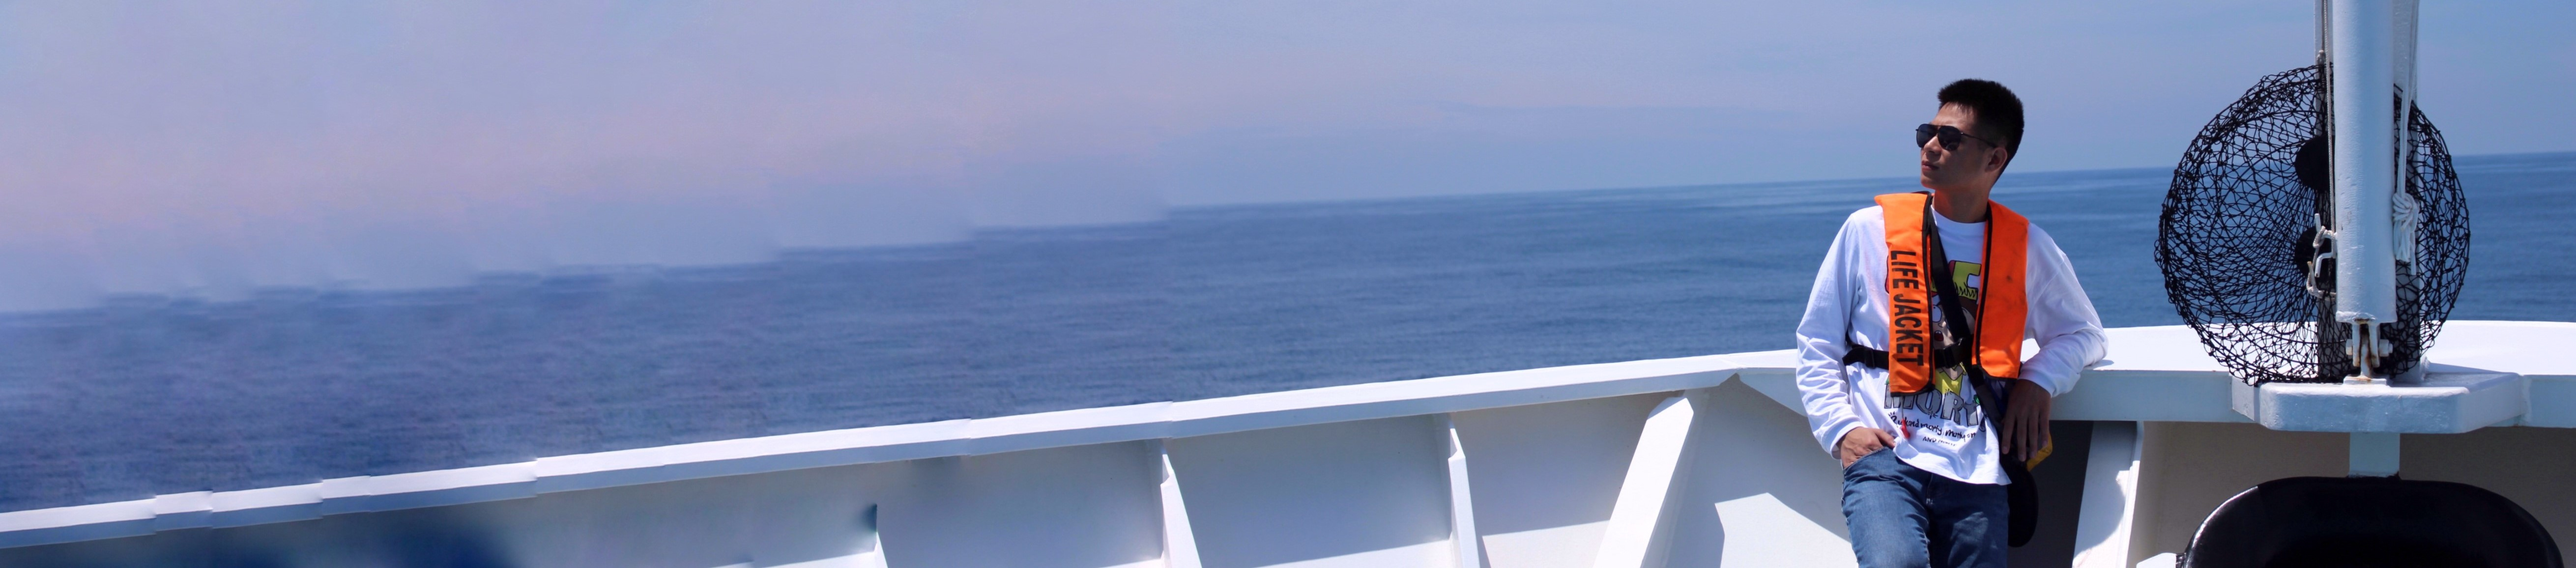
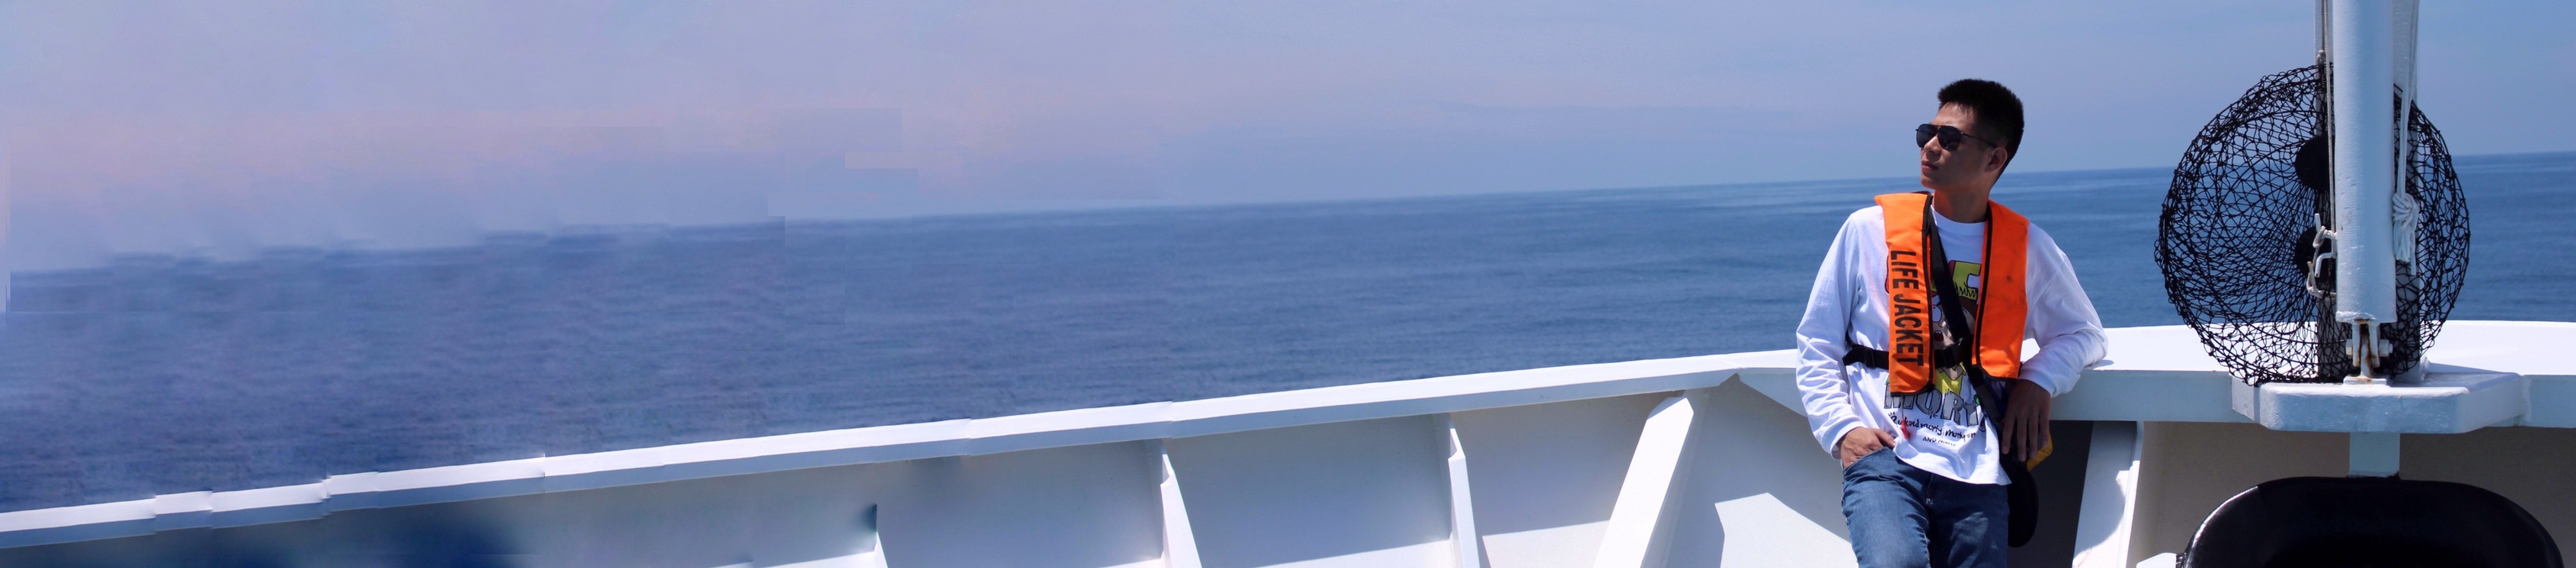
横幅图片尺寸缩小

diff --git a/index.html b/index.html
@@ -186,6 +186,7 @@
 				<ul class="games_tits">
 					<li class="greedy_snake_tit games_tits_li">贪吃蛇</li>
 					<li class="mine_tit games_tits_li">扫雷</li>
+					<li class="bug_tit games_tits_li">大虫子</li>
 				</ul>
 				<!-- 游戏分页 -->
 				<div class="game_content">
@@ -196,9 +197,7 @@
 								<div class="btn pauseBtn"><button></button></div>
 								<div id="snakeWrap"></div>
 							</div>
-
 							<script type="text/javascript" src="static\js\GreedySnake.js"></script>
-
 						</div>
 					</div>
 					<div class="games_child_page mine">
@@ -217,6 +216,12 @@
 								<div class="info">剩余雷数 : <span class="mineNum"></span></div>
 							</div>
 							<script src="static/js/Mine.js"></script>
+						</div>
+					</div>
+
+					<div class="games_child_page bug">
+						<div class="game_box">
+
 						</div>
 					</div>
 				</div>

diff --git a/static/css/ElijahLi-Web.css b/static/css/ElijahLi-Web.css
@@ -51,7 +51,7 @@ header{
 	height: 220px;
 	text-align: center;
 	background-color: rgba(109,126,123,0.5);
-	background-image: url("../images/网页部件/横幅.jpg");
+	background-image: url("../images/网页部件/横幅小尺寸.jpg");
 	background-size:cover;
 	background-repeat: no-repeat;
     position: relative;
